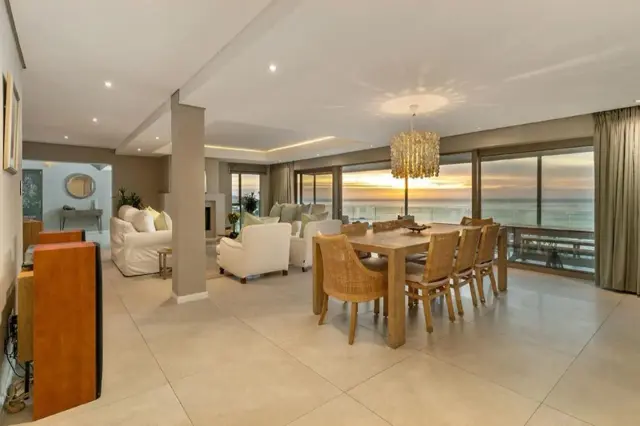
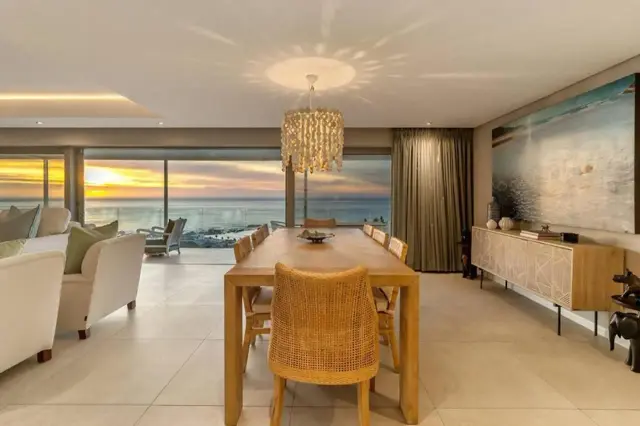
feat: reorder the living-level spaces, swap four photos, blue the swells (#38)
* feat: reorder the living-level spaces, swap four photos, blue the swells

Five changes the walkthrough asked for:

- The divider under the Camps Bay beach band is now the plain rule. It sits
  between the band's caption and "The house, level by level", where the
  animated skyline was doing the work of a paragraph break.
- Living level reads kitchen, sunbeds, indoor dining, formal living room,
  outside dining, outside lounge. The sunbeds move up because they are off
  the kitchen; outside dining and the formal living room trade places.
- Indoor dining leads on what was its fifth frame, bathrooms lead on what
  were their third, and the pool's fourth photograph is now the garden's
  fourth. Ordering is the numeric filename prefix, so these are renames,
  applied across the full, lead, mid and thumb trees together.
- The Atlantic swells are drawn in `sea` (#27506B) rather than ink: ink with
  the blue left in it. Same three paths, same opacity stack, same drift.

* feat: the code half of the same change

The previous commit carried only the photo renames — the four source edits
were left in the working tree. Same change, described there.

diff --git a/src/components/HouseLevelsSection.tsx b/src/components/HouseLevelsSection.tsx
@@ -45,14 +45,14 @@ const LEVELS: Level[] = [
         "Modern appliances, marble countertops, and a large island built for cooking together."
       ),
       space(
+        "living-level/sunbeds",
+        "The sunbeds",
+        "Off the kitchen: loungers and a reading nook, for the part of the day nobody wants to be indoors."
+      ),
+      space(
         "living-level/indoor-dining",
         "Indoor dining",
         "A formal table for eight under the chandelier, with the ocean through the glass."
-      ),
-      space(
-        "living-level/outside-dining",
-        "Outside dining",
-        "The covered dining table on the terrace, where most meals end up happening."
       ),
       space(
         "living-level/formal-living-room",
@@ -60,14 +60,14 @@ const LEVELS: Level[] = [
         "A fireplace, deep seating, and the Atlantic filling the far wall."
       ),
       space(
+        "living-level/outside-dining",
+        "Outside dining",
+        "The covered dining table on the terrace, where most meals end up happening."
+      ),
+      space(
         "living-level/outside-lounge",
         "The outside lounge",
         "The seating that lives outdoors, between the living room and the view."
-      ),
-      space(
-        "living-level/sunbeds",
-        "The sunbeds",
-        "Off the kitchen: loungers and a reading nook, for the part of the day nobody wants to be indoors."
       ),
       space(
         "living-level/bar",

diff --git a/src/components/Atlantic.tsx b/src/components/Atlantic.tsx
@@ -6,8 +6,10 @@
 // arrow is gone and the sea is drawn where it belongs: under the section, in
 // the place the skyline divider held.
 //
-// The waves are the same ink-on-paper line as the plan and the ridgeline —
-// no fill, no gradient, no blue. They drift sideways slowly and forever,
+// The waves are the same drawn hairline as the plan and the ridgeline — no
+// fill, no gradient — but in `sea` rather than ink: ink with the blue left
+// in it, dark enough that the three-swell opacity stack still reads as depth
+// rather than as colour. They drift sideways slowly and forever,
 // which is the one thing a drawn sea can do that a photograph of one cannot.
 // Motion is always on for this site; there is deliberately no
 // prefers-reduced-motion branch, as in `Ridgeline`.
@@ -60,7 +62,7 @@ export default function AtlanticBand({ className = "" }: { className?: string })
         <svg
           viewBox={`0 0 ${TILE} ${HEIGHT}`}
           preserveAspectRatio="none"
-          className="ev-atlantic block h-[58px] w-full text-ink md:h-[74px]"
+          className="ev-atlantic block h-[58px] w-full text-sea md:h-[74px]"
           role="presentation"
           focusable="false"
         >

diff --git a/tailwind.config.ts b/tailwind.config.ts
@@ -23,6 +23,11 @@ export default {
 				stone: "#8C857A",
 				line: "#DAD8D2",
 				sun: "#D98A3D",
+				// The drawn sea. Ink with the blue left in it — the swells in
+				// AtlanticBand are the only thing on the page that is not ink,
+				// and at their opacities a saturated blue would read as a
+				// graphic rather than a drawing.
+				sea: "#27506B",
 				// Literal --stone (#8C857A) only reaches 3.2:1 against --paper,
 				// short of design-direction §10's 4.5:1 body-text floor. Used for
 				// stone-coloured TEXT only — the ridgeline stroke and other

diff --git a/src/components/BelowFold.tsx b/src/components/BelowFold.tsx
@@ -42,7 +42,7 @@ type Divider = "ridge" | "rule" | "atlantic";
 
 const SECTIONS: Array<[string, ComponentType, Divider?]> = [
   ["horizon", HorizonSection],
-  ["beach-band", BeachBand],
+  ["beach-band", BeachBand, "rule"],
   ["house", HouseLevelsSection],
   ["bedrooms", BedroomsSection],
   ["plans", FloorPlanSection, "atlantic"],
